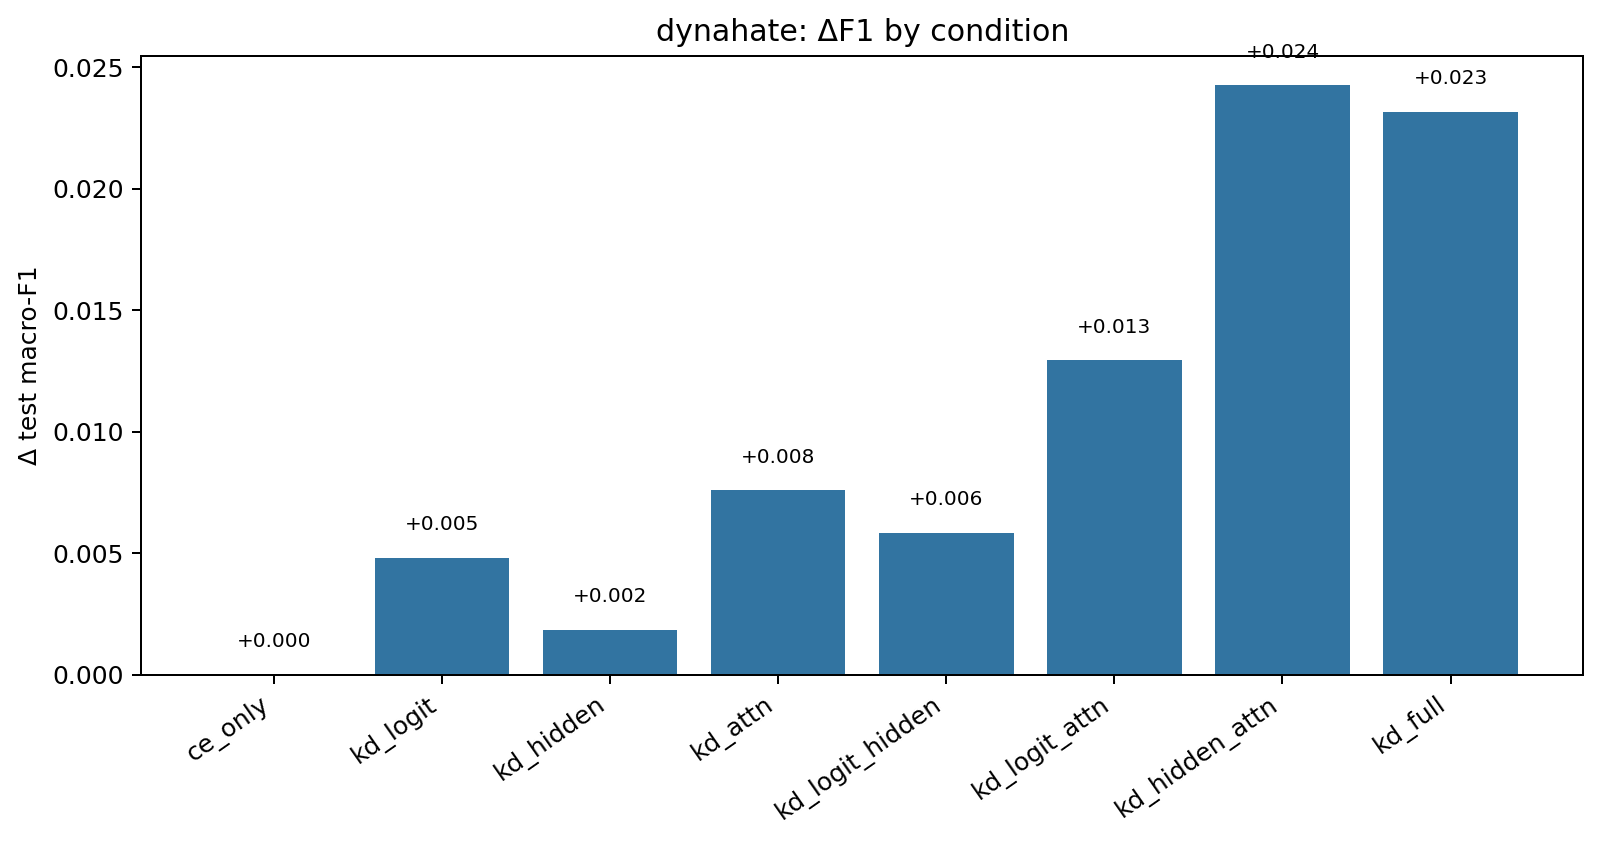
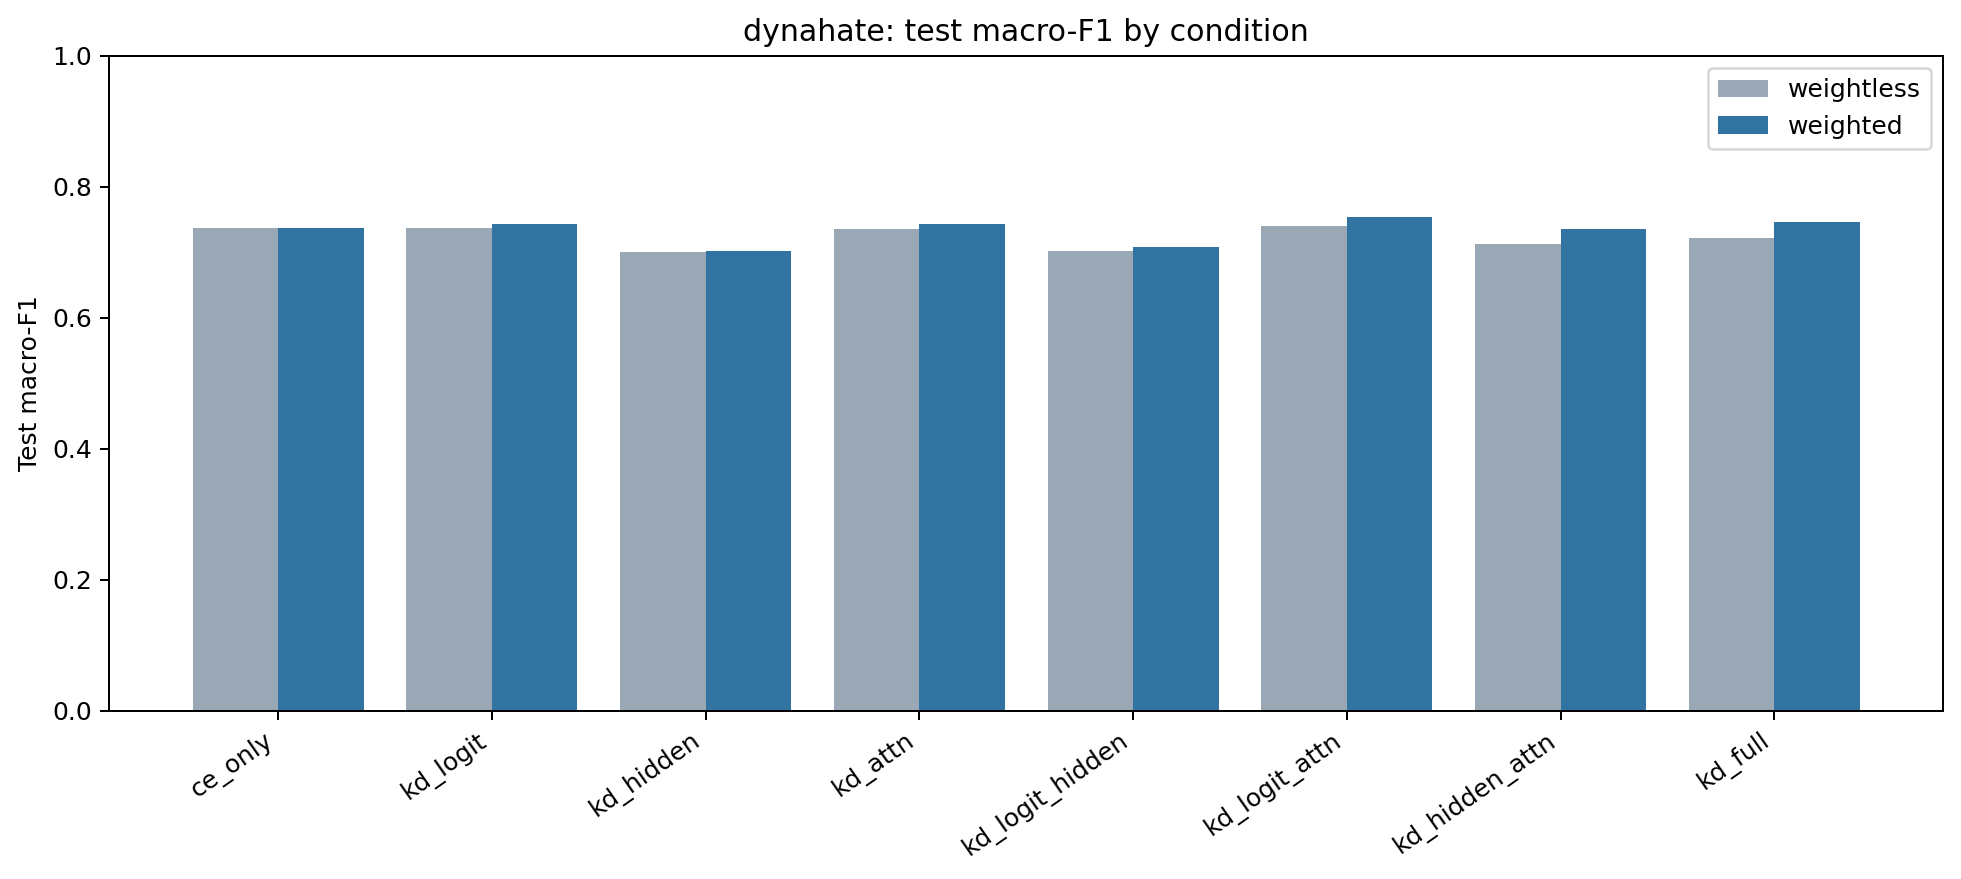
feat: show paired weightless/weighted F1 bars per condition
Replace the single signed delta-F1 bar per dataset with grouped
weightless-vs-weighted bars across the 8 conditions, so readers can
read the before/after gap directly instead of inferring it from a delta.

diff --git a/scripts/07_compare_weighting.py b/scripts/07_compare_weighting.py
@@ -134,14 +134,17 @@ def _delta_matrix(comparison: pd.DataFrame, value_column: str) -> pd.DataFrame:
 
 
 def write_f1_condition_bars(comparison: pd.DataFrame, out_dir: pathlib.Path) -> dict[str, pathlib.Path]:
-    """Per dataset, signed bars of ΔF1 (weighted - weightless) across the 8 conditions."""
+    """Per dataset, grouped weightless-vs-weighted F1 bars across the 8 conditions."""
     figures = {}
     for dataset in _ordered(comparison["dataset"].unique(), DATASET_ORDER):
         rows = comparison.loc[comparison["dataset"] == dataset].set_index("condition")
         conditions = _ordered(rows.index, CONDITION_ORDER)
-        values = [_float(rows.loc[condition, "delta_test_macro_f1"]) for condition in conditions]
+        weightless = [_float(rows.loc[condition, "test_macro_f1_wl"]) for condition in conditions]
+        weighted = [_float(rows.loc[condition, "test_macro_f1_w"]) for condition in conditions]
         path = out_dir / f"delta_f1_conditions_{dataset}.png"
-        _save_signed_bars(conditions, values, f"{dataset}: ΔF1 by condition", "Δ test macro-F1", path)
+        _save_grouped_bars(
+            conditions, weightless, weighted, f"{dataset}: test macro-F1 by condition", "Test macro-F1", path
+        )
         figures[dataset] = path
     return figures
 
@@ -214,6 +217,33 @@ def _save_signed_bars(
     ax.set_ylabel(ylabel)
     ax.set_xticks(range(len(labels)))
     ax.set_xticklabels(labels, rotation=35, ha="right")
+    fig.tight_layout()
+    fig.savefig(path, dpi=FIGURE_DPI, bbox_inches="tight")
+    plt.close(fig)
+    return path
+
+
+def _save_grouped_bars(
+    labels: list[str],
+    weightless: list[float],
+    weighted: list[float],
+    title: str,
+    ylabel: str,
+    path: pathlib.Path,
+) -> pathlib.Path:
+    """Save side-by-side weightless/weighted bars so the before/after gap is visible."""
+    path.parent.mkdir(parents=True, exist_ok=True)
+    positions = range(len(labels))
+    width = 0.4
+    fig, ax = plt.subplots(figsize=(11, 5))
+    ax.bar([p - width / 2 for p in positions], weightless, width, label="weightless", color="#9aa7b5")
+    ax.bar([p + width / 2 for p in positions], weighted, width, label="weighted", color="#3274a1")
+    ax.set_title(title)
+    ax.set_ylabel(ylabel)
+    ax.set_ylim(0.0, 1.0)
+    ax.set_xticks(list(positions))
+    ax.set_xticklabels(labels, rotation=35, ha="right")
+    ax.legend()
     fig.tight_layout()
     fig.savefig(path, dpi=FIGURE_DPI, bbox_inches="tight")
     plt.close(fig)
@@ -323,7 +353,7 @@ def _dataset_section(
     for condition in _ordered(rows["condition"].unique(), CONDITION_ORDER):
         lines.append(_dataset_row(condition, indexed.loc[condition]))
     lines.append("")
-    lines += _dataset_figure(f1_bar, "ΔF1 by condition")
+    lines += _dataset_figure(f1_bar, "F1 by condition: weightless vs weighted")
     lines += _dataset_figure(effect_bar, "Δ main effects")
     return lines
 

diff --git a/comparison/COMPARISON.md b/comparison/COMPARISON.md
@@ -59,7 +59,7 @@ ECE warm is **worse** (more miscalibrated).
 | `kd_hidden_attn` | 0.7484 | 0.7502 | +0.0018 | 0.9121 | 0.9157 | +0.0036 | 0.0095 | 0.0183 | +0.0089 |
 | `kd_full` | 0.7582 | 0.7605 | +0.0023 | 0.9133 | 0.9117 | -0.0016 | 0.0170 | 0.0190 | +0.0019 |
 
-![ΔF1 by condition](figures/delta_f1_conditions_davidson.png)
+![F1 by condition: weightless vs weighted](figures/delta_f1_conditions_davidson.png)
 
 ![Δ main effects](figures/delta_effects_davidson.png)
 
@@ -76,7 +76,7 @@ ECE warm is **worse** (more miscalibrated).
 | `kd_hidden_attn` | 0.7120 | 0.7363 | +0.0243 | 0.7228 | 0.7427 | +0.0199 | 0.0666 | 0.0571 | -0.0095 |
 | `kd_full` | 0.7223 | 0.7455 | +0.0232 | 0.7291 | 0.7493 | +0.0201 | 0.0386 | 0.0336 | -0.0050 |
 
-![ΔF1 by condition](figures/delta_f1_conditions_dynahate.png)
+![F1 by condition: weightless vs weighted](figures/delta_f1_conditions_dynahate.png)
 
 ![Δ main effects](figures/delta_effects_dynahate.png)
 
@@ -93,7 +93,7 @@ ECE warm is **worse** (more miscalibrated).
 | `kd_hidden_attn` | 0.5352 | 0.5590 | +0.0239 | 0.5490 | 0.5698 | +0.0208 | 0.2799 | 0.2809 | +0.0009 |
 | `kd_full` | 0.5474 | 0.5590 | +0.0116 | 0.5591 | 0.5718 | +0.0127 | 0.2877 | 0.2839 | -0.0038 |
 
-![ΔF1 by condition](figures/delta_f1_conditions_hateval.png)
+![F1 by condition: weightless vs weighted](figures/delta_f1_conditions_hateval.png)
 
 ![Δ main effects](figures/delta_effects_hateval.png)
 
@@ -110,7 +110,7 @@ ECE warm is **worse** (more miscalibrated).
 | `kd_hidden_attn` | 0.4195 | 0.4135 | -0.0060 | 0.4316 | 0.4200 | -0.0116 | 0.3248 | 0.2701 | -0.0547 |
 | `kd_full` | 0.4286 | 0.4156 | -0.0130 | 0.4381 | 0.4231 | -0.0150 | 0.3243 | 0.2723 | -0.0520 |
 
-![ΔF1 by condition](figures/delta_f1_conditions_anli.png)
+![F1 by condition: weightless vs weighted](figures/delta_f1_conditions_anli.png)
 
 ![Δ main effects](figures/delta_effects_anli.png)
 
@@ -127,7 +127,7 @@ ECE warm is **worse** (more miscalibrated).
 | `kd_hidden_attn` | 0.7864 | 0.8000 | +0.0137 | 0.8508 | 0.8572 | +0.0064 | 0.0333 | 0.0273 | -0.0060 |
 | `kd_full` | 0.7981 | 0.8021 | +0.0040 | 0.8584 | 0.8576 | -0.0008 | 0.0289 | 0.0200 | -0.0089 |
 
-![ΔF1 by condition](figures/delta_f1_conditions_fever.png)
+![F1 by condition: weightless vs weighted](figures/delta_f1_conditions_fever.png)
 
 ![Δ main effects](figures/delta_effects_fever.png)
 
@@ -144,7 +144,7 @@ ECE warm is **worse** (more miscalibrated).
 | `kd_hidden_attn` | 0.8387 | 0.8539 | +0.0152 | 0.8391 | 0.8540 | +0.0149 | 0.0347 | 0.0353 | +0.0006 |
 | `kd_full` | 0.8505 | 0.8561 | +0.0057 | 0.8507 | 0.8562 | +0.0055 | 0.0383 | 0.0388 | +0.0006 |
 
-![ΔF1 by condition](figures/delta_f1_conditions_imdb.png)
+![F1 by condition: weightless vs weighted](figures/delta_f1_conditions_imdb.png)
 
 ![Δ main effects](figures/delta_effects_imdb.png)
 
@@ -161,7 +161,7 @@ ECE warm is **worse** (more miscalibrated).
 | `kd_hidden_attn` | 0.6478 | 0.6591 | +0.0112 | 0.6470 | 0.6579 | +0.0109 | 0.0929 | 0.0868 | -0.0060 |
 | `kd_full` | 0.6552 | 0.6459 | -0.0093 | 0.6565 | 0.6446 | -0.0120 | 0.0508 | 0.1057 | +0.0549 |
 
-![ΔF1 by condition](figures/delta_f1_conditions_tweet_eval-sentiment.png)
+![F1 by condition: weightless vs weighted](figures/delta_f1_conditions_tweet_eval-sentiment.png)
 
 ![Δ main effects](figures/delta_effects_tweet_eval-sentiment.png)
 
@@ -178,6 +178,6 @@ ECE warm is **worse** (more miscalibrated).
 | `kd_hidden_attn` | 0.3892 | 0.5176 | +0.1284 | 0.4210 | 0.5326 | +0.1116 | 0.0382 | 0.0391 | +0.0009 |
 | `kd_full` | 0.5192 | 0.6136 | +0.0944 | 0.5326 | 0.6168 | +0.0842 | 0.0340 | 0.0558 | +0.0218 |
 
-![ΔF1 by condition](figures/delta_f1_conditions_vardial.png)
+![F1 by condition: weightless vs weighted](figures/delta_f1_conditions_vardial.png)
 
 ![Δ main effects](figures/delta_effects_vardial.png)
